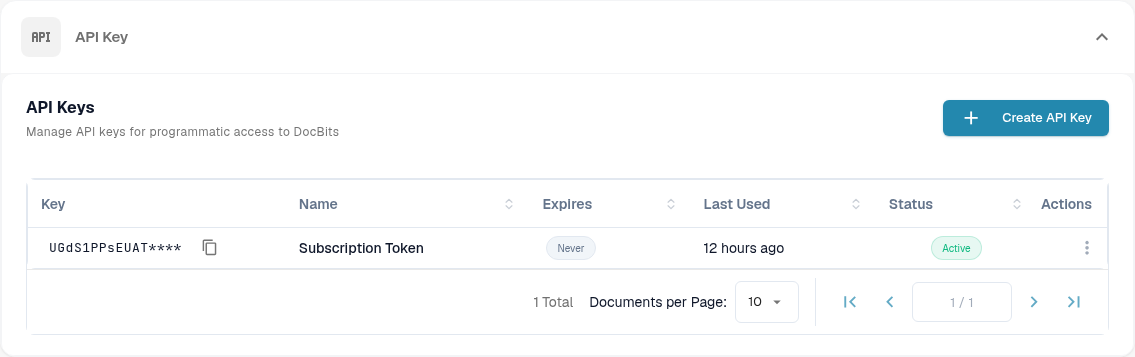
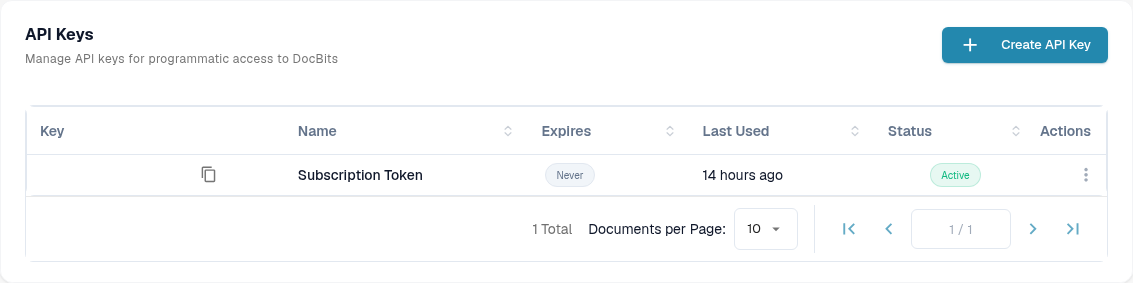
docs(api-key): hide key prefix in review screenshot

diff --git a/readme/administration-and-setup/settings/global-settings/integration/api-key.md b/readme/administration-and-setup/settings/global-settings/integration/api-key.md
@@ -1,6 +1,6 @@
 # API Key
 
-<figure><img src="../../../../.gitbook/assets/api-key-settings-page-en.png" alt="The Integration &amp; SSO settings page in DocBits with the API Key section open, showing the API key list and the Create API Key button"><figcaption><p>Settings → Integration &amp; SSO → API Key</p></figcaption></figure>
+<figure><img src="../../../../.gitbook/assets/api-key-settings-page-en.png" alt="API Keys panel with the Create API Key button, key list columns and the key prefix hidden for documentation"><figcaption><p>Settings → Integration &amp; SSO → API Key. The key prefix is hidden in this screenshot.</p></figcaption></figure>
 
 The **API Key** section at the top of the Integration & SSO page lists every API key your organization has created. An API key lets another system — your ERP, a script, or a partner application — access DocBits without a user logging in. For step-by-step instructions, see [API Key Management](api-key-management.md).
 
